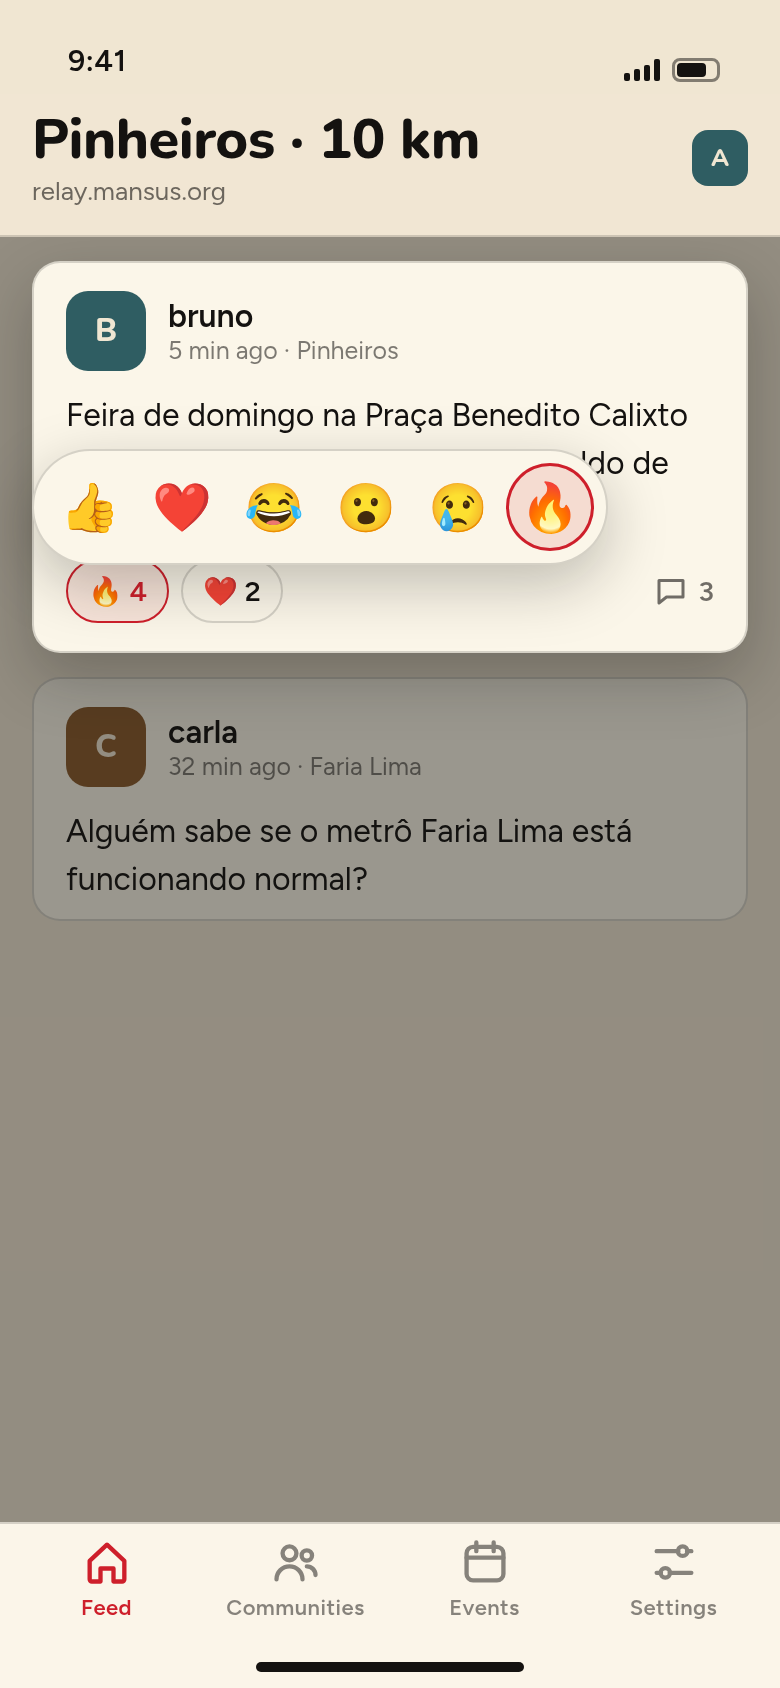
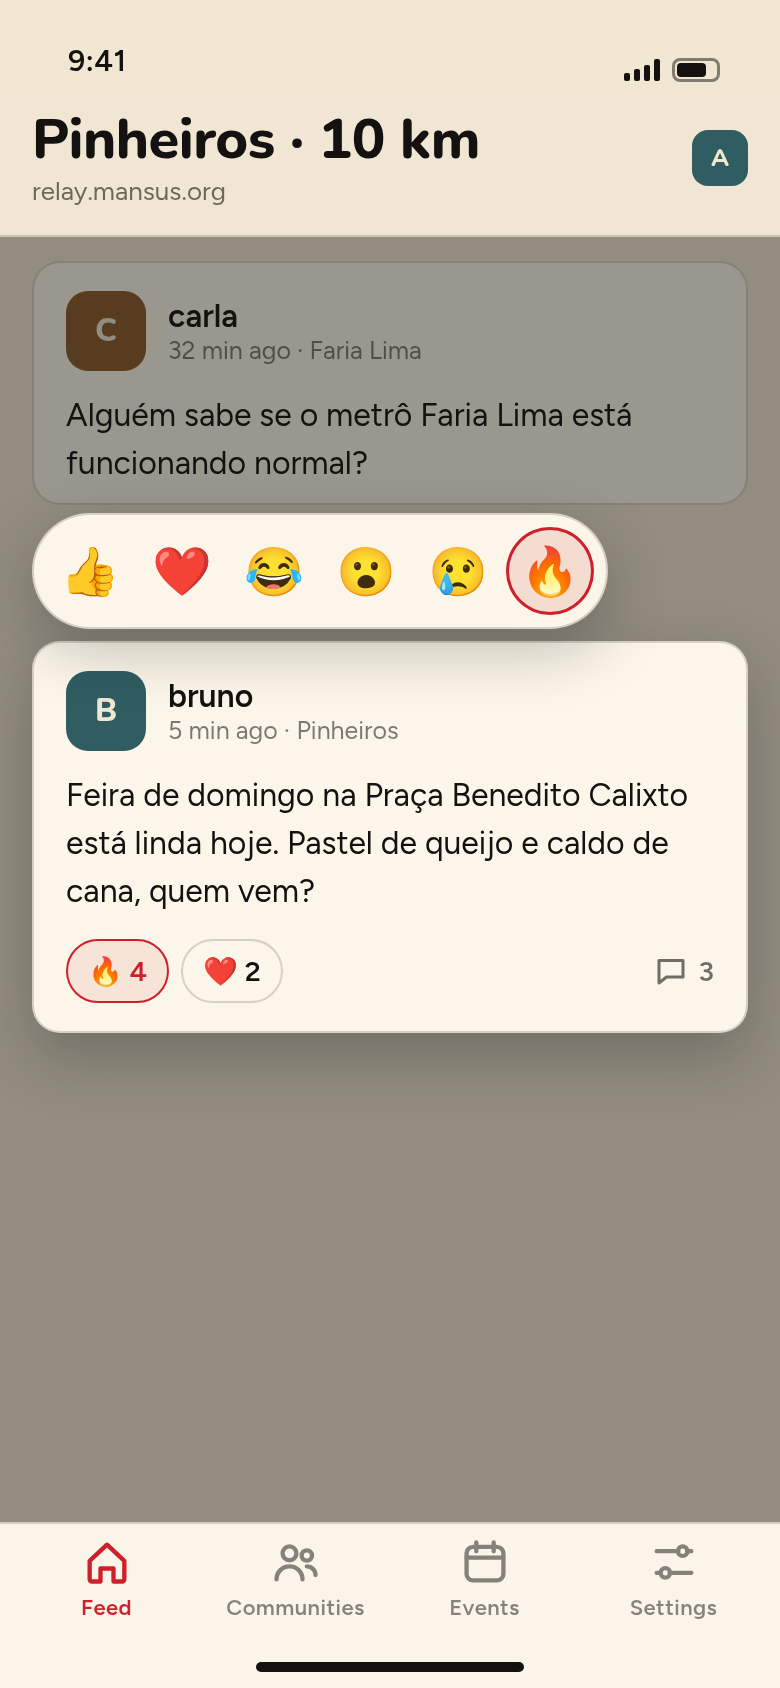
RELY-78 Full screen table in README; move reaction picker off the post body

diff --git a/mobile-mockups/screens/05-reaction-picker.html b/mobile-mockups/screens/05-reaction-picker.html
@@ -11,15 +11,15 @@
   </header>
   <main class="screen">
     <div class="feed" style="padding-top:12px">
-      <article class="card" style="position:relative;z-index:75;box-shadow:0 12px 30px rgba(20,18,16,.25)">
+      <article class="card"><div class="card-head"><span class="avatar c3">C</span><div class="who"><b>carla</b><span class="when">32 min ago · Faria Lima</span></div></div><p class="card-body">Alguém sabe se o metrô Faria Lima está funcionando normal?</p></article>
+      <article class="card" style="margin-top:56px;position:relative;z-index:75;box-shadow:0 12px 30px rgba(20,18,16,.25)">
         <div class="card-head"><span class="avatar c2">B</span><div class="who"><b>bruno</b><span class="when">5 min ago · Pinheiros</span></div></div>
         <p class="card-body">Feira de domingo na Praça Benedito Calixto está linda hoje. Pastel de queijo e caldo de cana, quem vem?</p>
         <div class="card-foot"><div class="reactions"><span class="react mine">🔥 4</span><span class="react">❤ 2</span></div><span class="replies-count"><i class="ic ic-chat"></i>3</span></div>
       </article>
-      <article class="card"><div class="card-head"><span class="avatar c3">C</span><div class="who"><b>carla</b><span class="when">32 min ago · Faria Lima</span></div></div><p class="card-body">Alguém sabe se o metrô Faria Lima está funcionando normal?</p></article>
     </div>
     <div class="scrim" style="z-index:70"></div>
-    <div class="popover picker" style="left:16px;top:106px;z-index:80"><button>👍</button><button>❤</button><button>😂</button><button>😮</button><button>😢</button><button class="on">🔥</button></div>
+    <div class="popover picker" style="left:16px;top:138px;z-index:80"><button>👍</button><button>❤</button><button>😂</button><button>😮</button><button>😢</button><button class="on">🔥</button></div>
   </main>
   <nav class="tabbar">
     <a class="tab active"><i class="ic ic-feed"></i>Feed</a>

diff --git a/mobile-mockups/README.md b/mobile-mockups/README.md
@@ -2,14 +2,24 @@
 
 Static HTML/CSS mock UIs of every screen of the Expo / React Native app, for
 product-owner review. Design only: no app code. Tokens and components live in
-`shared.css`; each screen is `screens/<NN>-<name>.html`.
+`shared.css` (plus `auth.css`, `communities.css`, `events.css`, `admin.css`
+for area-specific bits); each screen is `screens/<NN>-<name>.html` with its
+render in `png/<NN>-<name>.png`.
 
-Render everything (or only some screens) to `png/`:
+## How to render
 
 ```sh
-./render.sh                      # all
-./render.sh screens/01-feed.html # one
+./render.sh                      # every screen -> png/
+./render.sh screens/01-feed.html # only some screens
 ```
+
+Needs `chromium` and `node` on PATH. Output is 780×1688 (a 390×844 phone at 2x).
+Emoji use Noto Color Emoji, which `render.sh` downloads into `fonts/`
+(git-ignored) on first run.
+
+## Screens
+
+Signed-in screens share the bottom tab bar: Feed · Communities · Events · Settings.
 
 | # | Screen | Sub-issue | Shows |
 |---|---|---|---|
@@ -17,7 +27,29 @@ Render everything (or only some screens) to `png/`:
 | 02 | feed-location-off | RELY-96 | Location permission denied, prompt to enable |
 | 03 | compose | RELY-96 | Text input with 500-char counter, location chip, community picker, Post/Event selector |
 | 04 | thread | RELY-99 | Post on top, replies indented up to 3 levels, "show replies", fixed reply bar |
-| 05 | reaction-picker | RELY-99 | Long-press emoji popover over a post card, one reaction selected |
-
-Emoji render through Noto Color Emoji, which `render.sh` downloads into
-`fonts/` (git-ignored) on first run.
+| 05 | reaction-picker | RELY-99 | Long-press emoji popover above a post card, one reaction selected |
+| 10 | login | Auth | Sign in to the node with username and password |
+| 11 | login-error | Auth | Login with wrong-credentials error |
+| 12 | register | Auth | Join via invite link: display name, username, password |
+| 13 | register-errors | Auth | Register with "username is taken" error |
+| 14 | register-invalid-invite | Auth | Register with invalid or used invite link |
+| 15 | settings | Auth / Settings | Profile, server, admin entry, sign out |
+| 16 | settings-server-sheet | Auth / Settings | Change-server bottom sheet with test connection |
+| 17 | settings-server-error | Auth / Settings | Server sheet with unreachable-address error |
+| 20 | communities | Communities | Nearby communities list with joined state |
+| 21 | community-feed | Communities | Community header and feed, Join button |
+| 22 | community-about | Communities | About tab: description, area, creator, members |
+| 23 | join-pseudonym-sheet | Communities | Join sheet to pick a pseudonym |
+| 24 | create-community | Communities | New community form: name, description, location, radius, pseudonyms |
+| 30 | events-list | Events | Upcoming events grouped by day, List/Map toggle |
+| 31 | events-map | Events | Map view with event pins |
+| 32 | events-map-sheet | Events | Map with a selected event's bottom card |
+| 33 | event-detail | Events | Event time, place, host, description, RSVP |
+| 34 | event-detail-going | Events | Event detail after RSVP |
+| 35 | create-event | Events | Event compose: title, start/end, venue, location, community |
+| 40 | admin-queue | Admin | Moderation queue with flagged posts and AI score |
+| 41 | admin-queue-item | Admin | Flagged post with AI review and actions |
+| 42 | admin-members | Admin | Member list |
+| 43 | admin-member-sheet | Admin | Member actions bottom sheet |
+| 44 | admin-remove-confirm | Admin | Confirm removing a member |
+| 45 | admin-invites | Admin | Create invite, pending and used invites |
